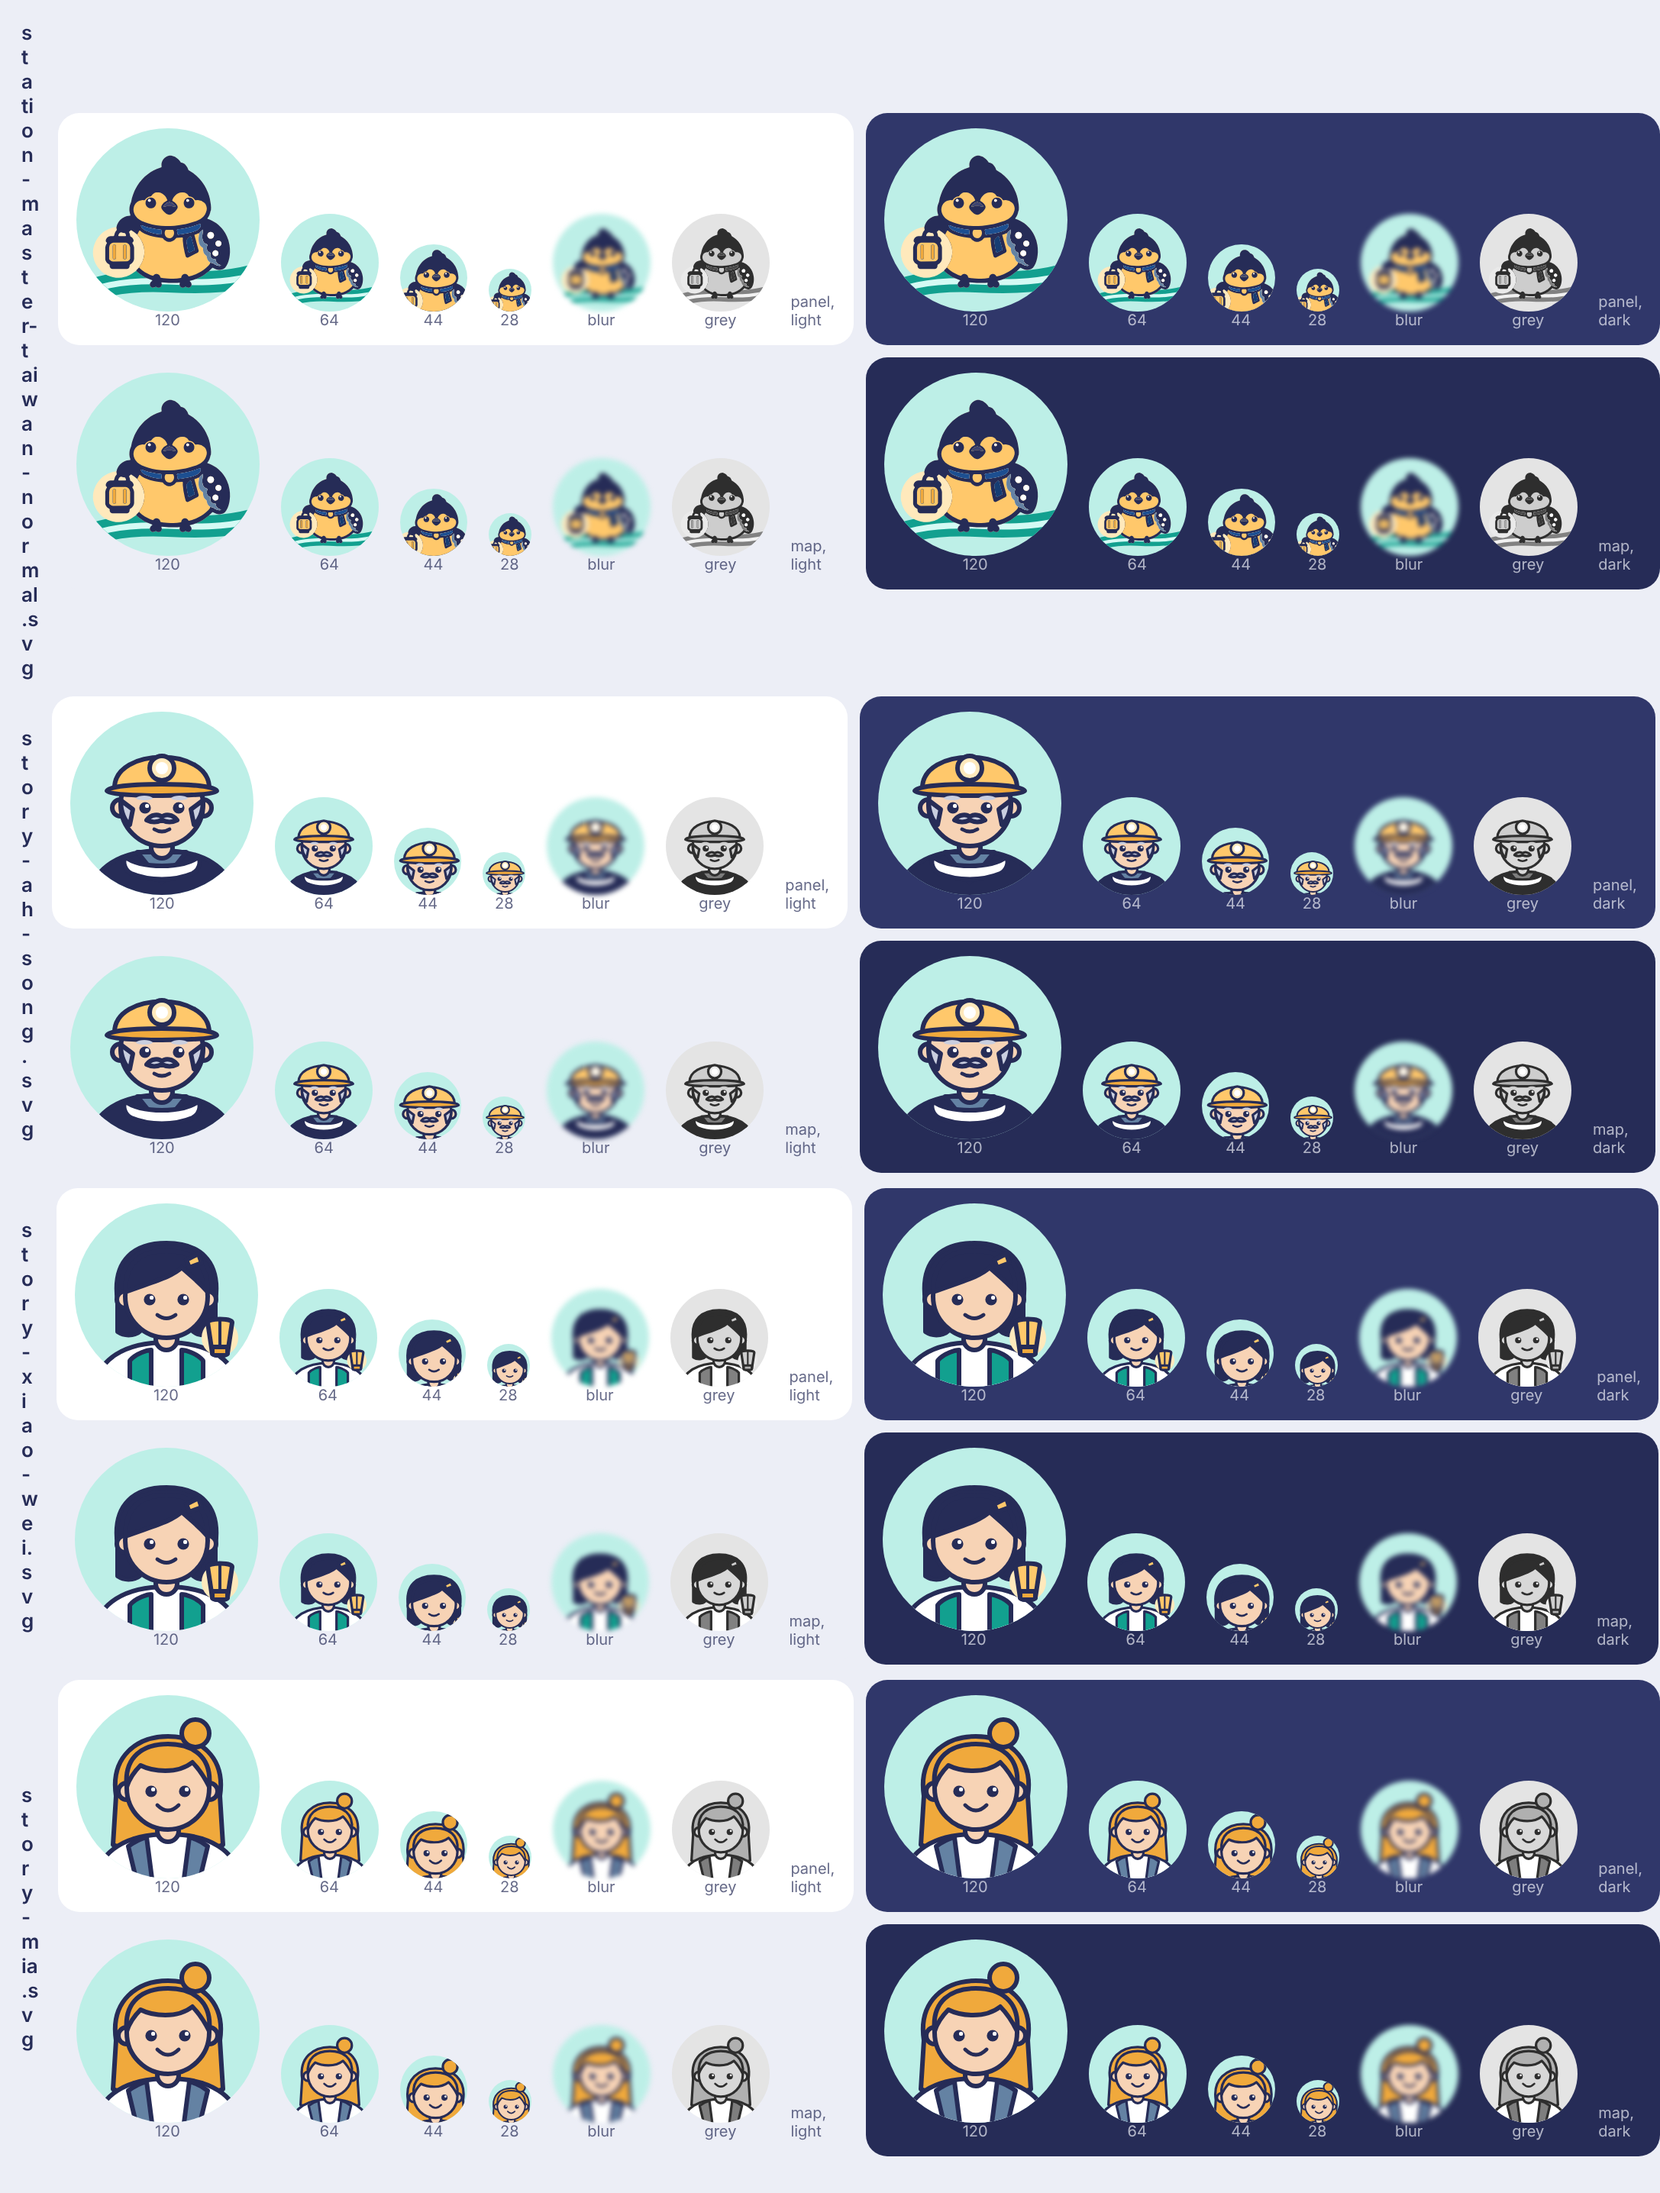
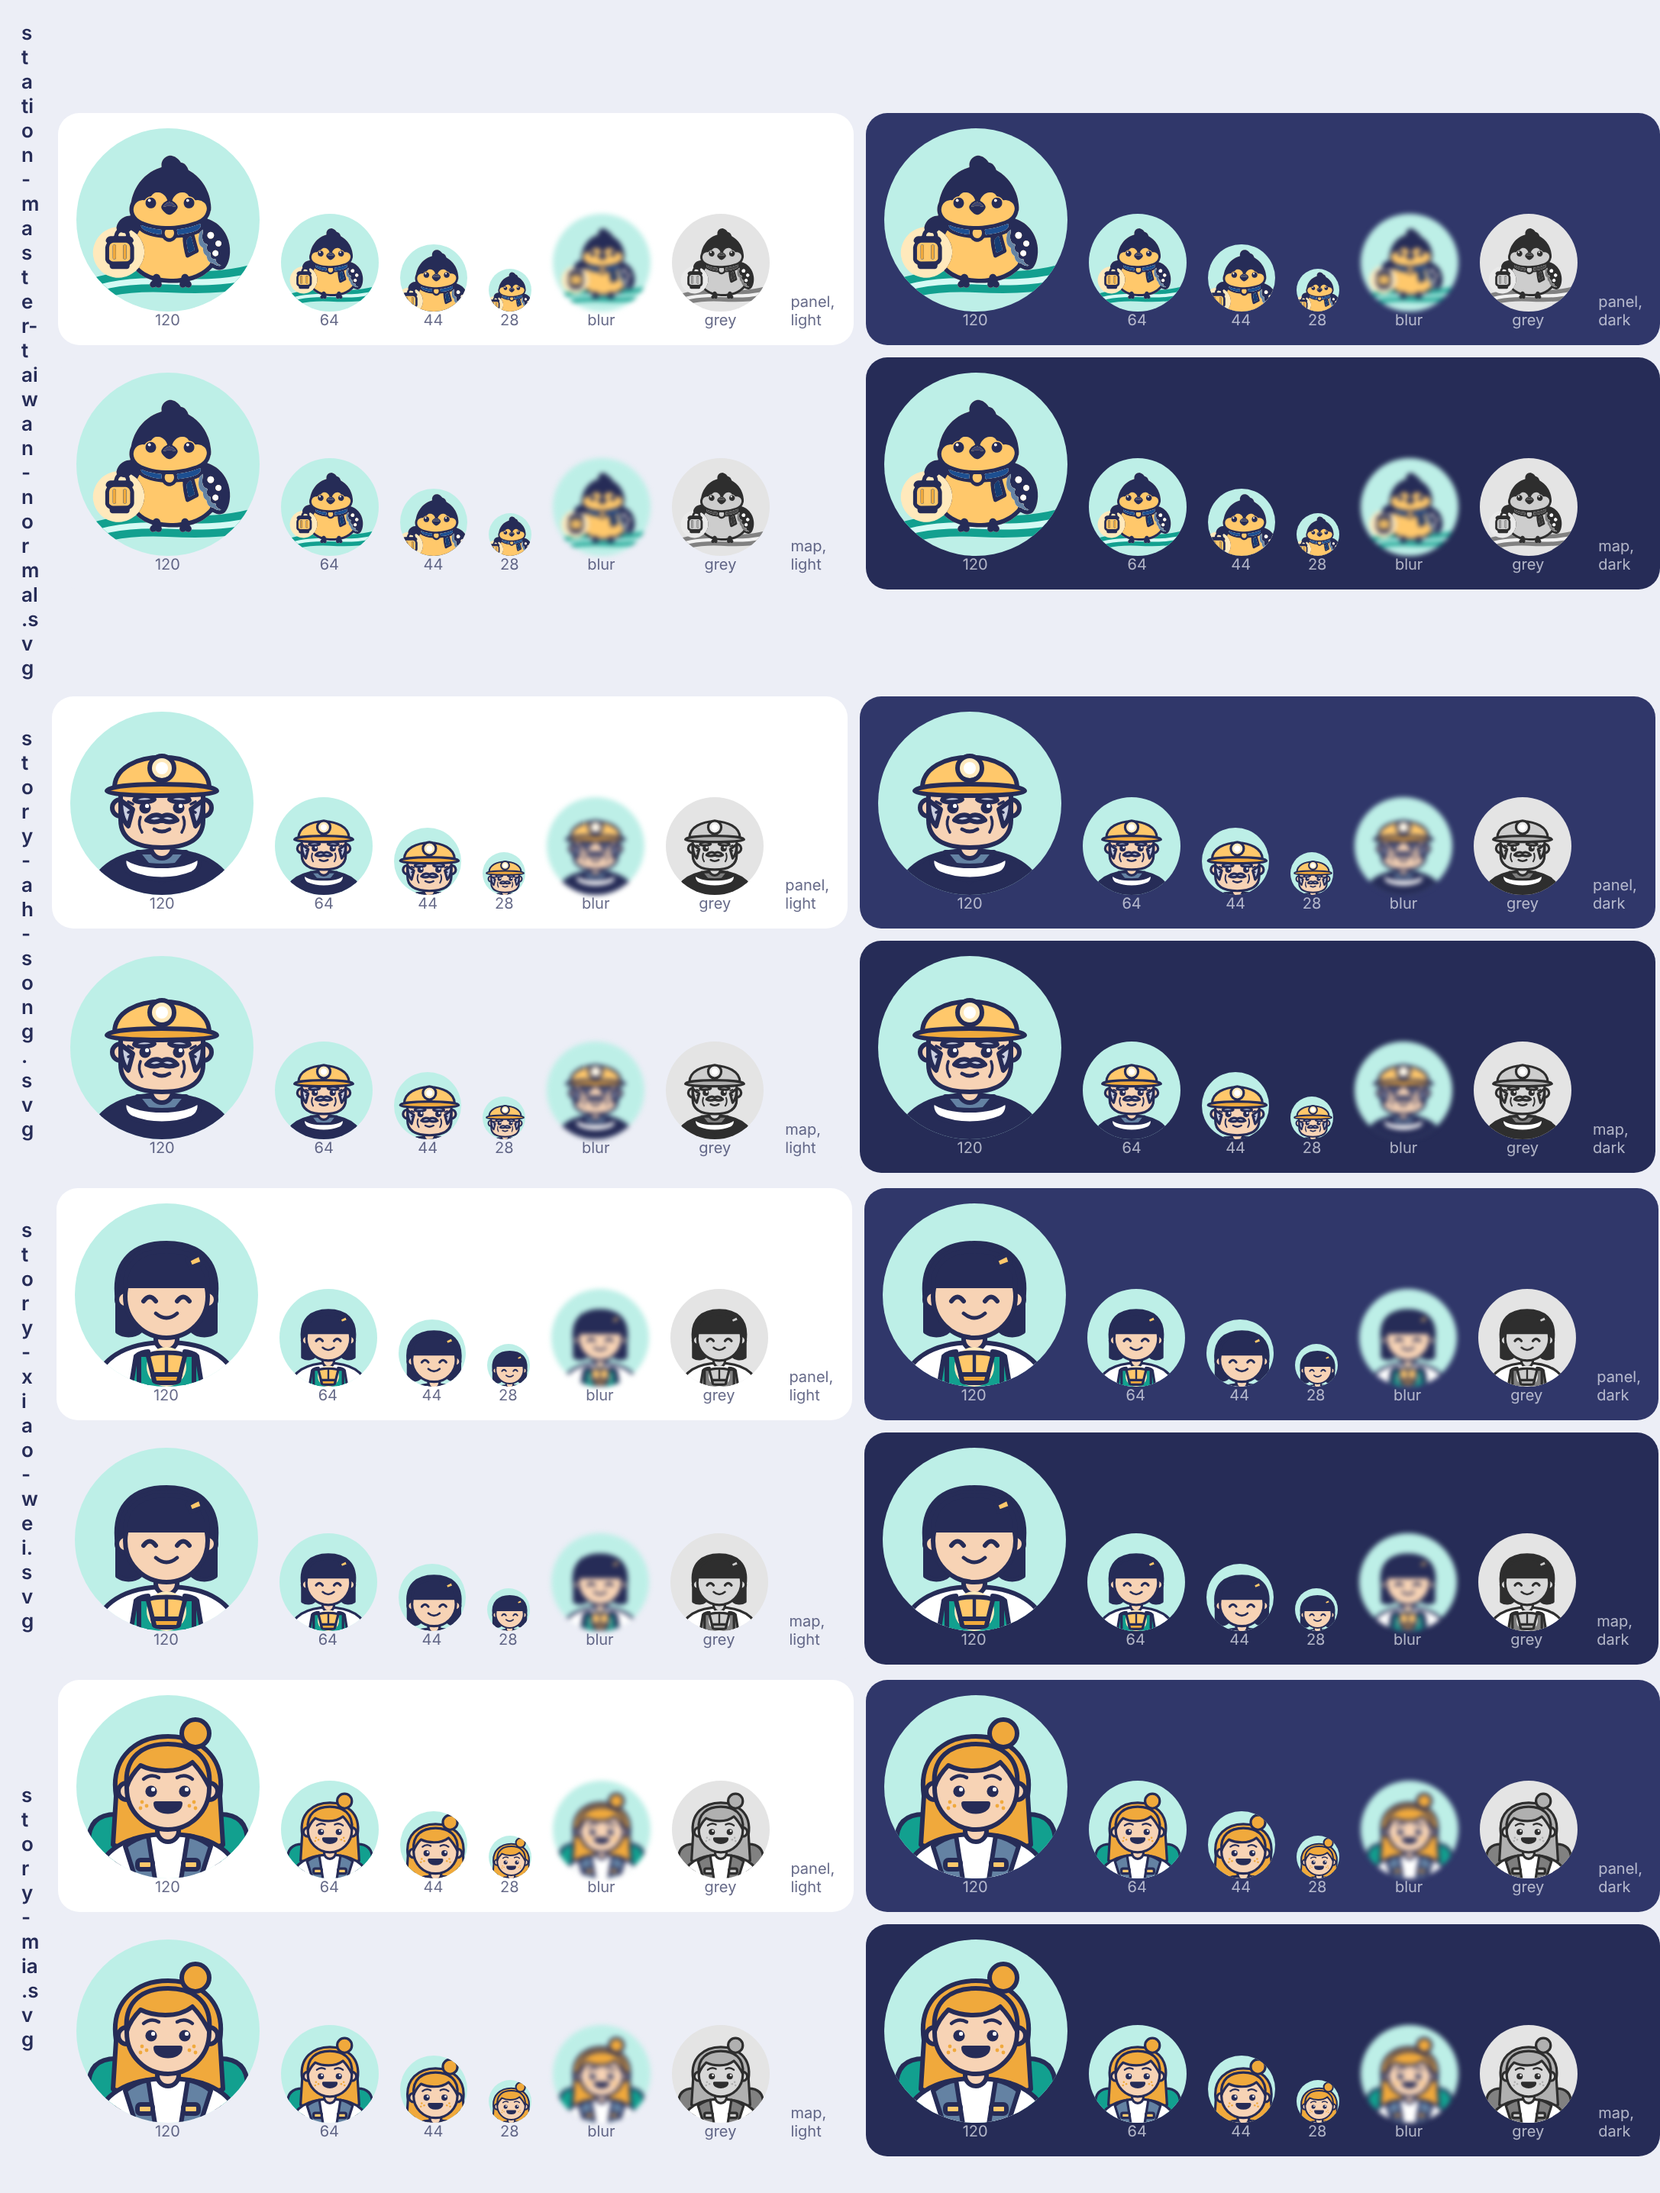
Challenge story portraits: tell the three faces apart, lantern and backpack inside the circle
Uncle Song: a squarer face, outlined bushy brows, crow's feet and smile
lines. Xiaowei: straight-cut bangs and smiling arc eyes; her sky lantern
moves onto her apron's bib, larger and wholly inside the circle. Mia:
raised brows, freckles, an open laugh, and a backpack showing over both
shoulders with buckled straps. Readable apart at 28 pt in greyscale.

Claude-Session: https://claude.ai/code/session_01Wc5kRdeidS2jE66NSZg1n6

diff --git a/docs/decisions/387.md b/docs/decisions/387.md
@@ -30,9 +30,10 @@
 - 結局另外留在目標面板：挑戰結束後，結果那一行下面是說話的人的頭像（36 點）、名字和結局的台詞。
 
 **6. 角色與頭像**（art-style skill）：站長就是原本的黃山雀（決策 122），用 `StationMasterAvatar`。三個新角色是人，畫成和站長同一套：扁平、實心色塊、藏青 `#262C57` 外框（3 點）、圓臉、和站長一樣的實心豆豆眼帶白色反光、淺綠松底 `#BDEFE7`；只畫頭和肩膀，所以 44 點的圓裡不必再放大頭部。
-- 阿松伯（`StoryAhSong`）：暖黃礦工安全帽、帽上的頭燈、灰白鬢角和八字鬍、脖子上的白毛巾、藏青工作服。
-- 小葳（`StoryXiaoWei`）：藏青短髮瀏海、黃色髮夾、綠松色圍裙、白襯衫，肩旁一盞小天燈（暖黃加橘色的底、淺黃光暈）。
-- Mia（`StoryMia`）：橘色長髮、頭頂一個髮髻、白 T 恤、藍灰色背包肩帶（和小葳的綠松圍裙分開）。
+- 阿松伯（`StoryAhSong`）：臉略方、灰白粗眉（藏青外框，灰階下才看得到）、眼角紋與法令紋，暖黃礦工安全帽和帽上的頭燈、灰白鬢角和八字鬍、脖子上的白毛巾、藏青工作服。
+- 小葳（`StoryXiaoWei`）：藏青短髮、齊瀏海、黃色髮夾，笑瞇的弧形眼（不是豆豆眼），綠松色圍裙，圍裙胸前一盞天燈（暖黃加橘色的底、淺黃光暈，整盞在圓裡）。
+- Mia（`StoryMia`）：橘色長髮、頭頂一個髮髻、上揚的細眉、兩頰的雀斑、張口大笑；背包從兩肩後面露出（綠松色），藍灰肩帶加黃色扣環，白 T 恤。
+- 修改（遊戲規劃看過第一版後，2026-10-23）：三人原本只有頭髮不同，臉一樣（同樣的豆豆眼、笑、臉型），改成上面各自的臉，28 點的灰階也分得出（安全帽、齊瀏海黑髮、髮髻加背包）；小葳的天燈原本在肩旁被圓切掉、小尺寸變雜點，改到圍裙胸前放大；Mia 加上看得出的背包。
 - 新的顏色只有膚色 `#F7D3B5` 與鬢角的淺灰 `#C9CEDF`，寫進 `docs/UI_THEME.md`；其他都是現有色票。
 - 檢查：art-style 的預覽（120／64／44／28 點、四種底、模糊、灰階），和站長並排；三人在灰階下分得開（帽子、黑髮、淺髮），不像已知的角色或表情符號。SVG 用 scratchpad 的 Python 腳本產生，只用 `svg`、`path`、`circle`、`ellipse`、`rect`。參考庫沒有可用的人物頭像（`city_world_reference` 的人物是寫實風，art-style 第 7 節），沒有用參考庫的圖。
 
@@ -53,7 +54,7 @@
 - 玩家：開場後有角色陪著推進，每個節點有人講話，不再單調；卡片不擋按鈕、可點掉、會自己收起，暫停與建造時不跳。
 - 鐵道迷：煤礦線、1980 年代地方保線、天燈節加班與十分折返都有公開出處（上面第 7 點）。
 - 開發：GamePresentation 資料驅動，觸發都從世界推得出來，附 Linux 測試（`ChallengeStoryTests`）；之後各關只加資料，不動 GameCore、存檔與 golden。
-- 美術：三個新頭像照 art-style，和黃山雀同一套畫法與色票。
+- 美術：三個新頭像照 art-style，和黃山雀同一套畫法與色票；第二版拉開三人的臉（年紀、眼睛、眉形、雀斑），讓 28 點灰階也認得出是誰，天燈與背包放進圓裡、小尺寸讀得出來。
 - 音樂：none（之後可加角色出場音效）。
 
 **沒選的**：

diff --git a/docs/art/challenge-story-2026-10-23/README.md b/docs/art/challenge-story-2026-10-23/README.md
@@ -4,4 +4,6 @@
 
 SVG 在 `RailwayGameApp/Resources/Assets.xcassets/Story*.imageset/`，用 scratchpad 的 Python 腳本產生（不放進 repo），只用 `svg`、`path`、`circle`、`ellipse`、`rect`。顏色見 `docs/UI_THEME.md`「挑戰劇情的角色」。
 
-第一版和這版只差兩處：小葳的天燈原本在圓的邊上被切掉，往裡移；Mia 的背包肩帶原本是綠松色，和小葳的圍裙像，改成藍灰。
+改了兩輪：
+- 第一版：小葳的天燈在圓的邊上被切掉，往裡移；Mia 的背包肩帶原本是綠松色，和小葳的圍裙像，改成藍灰。
+- 第二版（遊戲規劃看過後）：三人原本只有頭髮不同、臉一樣，改成阿松伯臉略方、粗眉、眼角紋與法令紋；小葳齊瀏海、笑瞇的弧形眼；Mia 上揚的細眉、雀斑、張口大笑。小葳的天燈改到圍裙胸前、放大，整盞在圓裡；Mia 的背包從兩肩後面露出，肩帶加黃色扣環。28 點的灰階也分得出三個人。

diff --git a/docs/UI_THEME.md b/docs/UI_THEME.md
@@ -106,9 +106,9 @@ PR：#187（配色與 HUD）、#190／#192（地圖為主的玻璃版面）、#1
 | 顏色 | 用在 |
 | --- | --- |
 | `#F7D3B5` | 膚色（臉、耳朵、脖子） |
-| `#C9CEDF` | 阿松伯的灰白鬢角、眉毛與鬍子 |
+| `#C9CEDF` | 阿松伯的灰白鬢角、眉毛與鬍子（眉毛加藏青外框，灰階下和膚色分得開） |
 
-插圖裡的色塊，不是文字，不算對比；灰階下三人靠帽子、黑髮、淺髮分得開（art-style 的預覽檢查）。
+插圖裡的色塊，不是文字，不算對比；灰階下三人靠安全帽、齊瀏海黑髮、髮髻加背包分得開，臉也各不同（方臉與眼角紋、笑瞇眼、雀斑與大笑）（art-style 的預覽檢查）。
 
 ## 地圖（決策 84）
 
